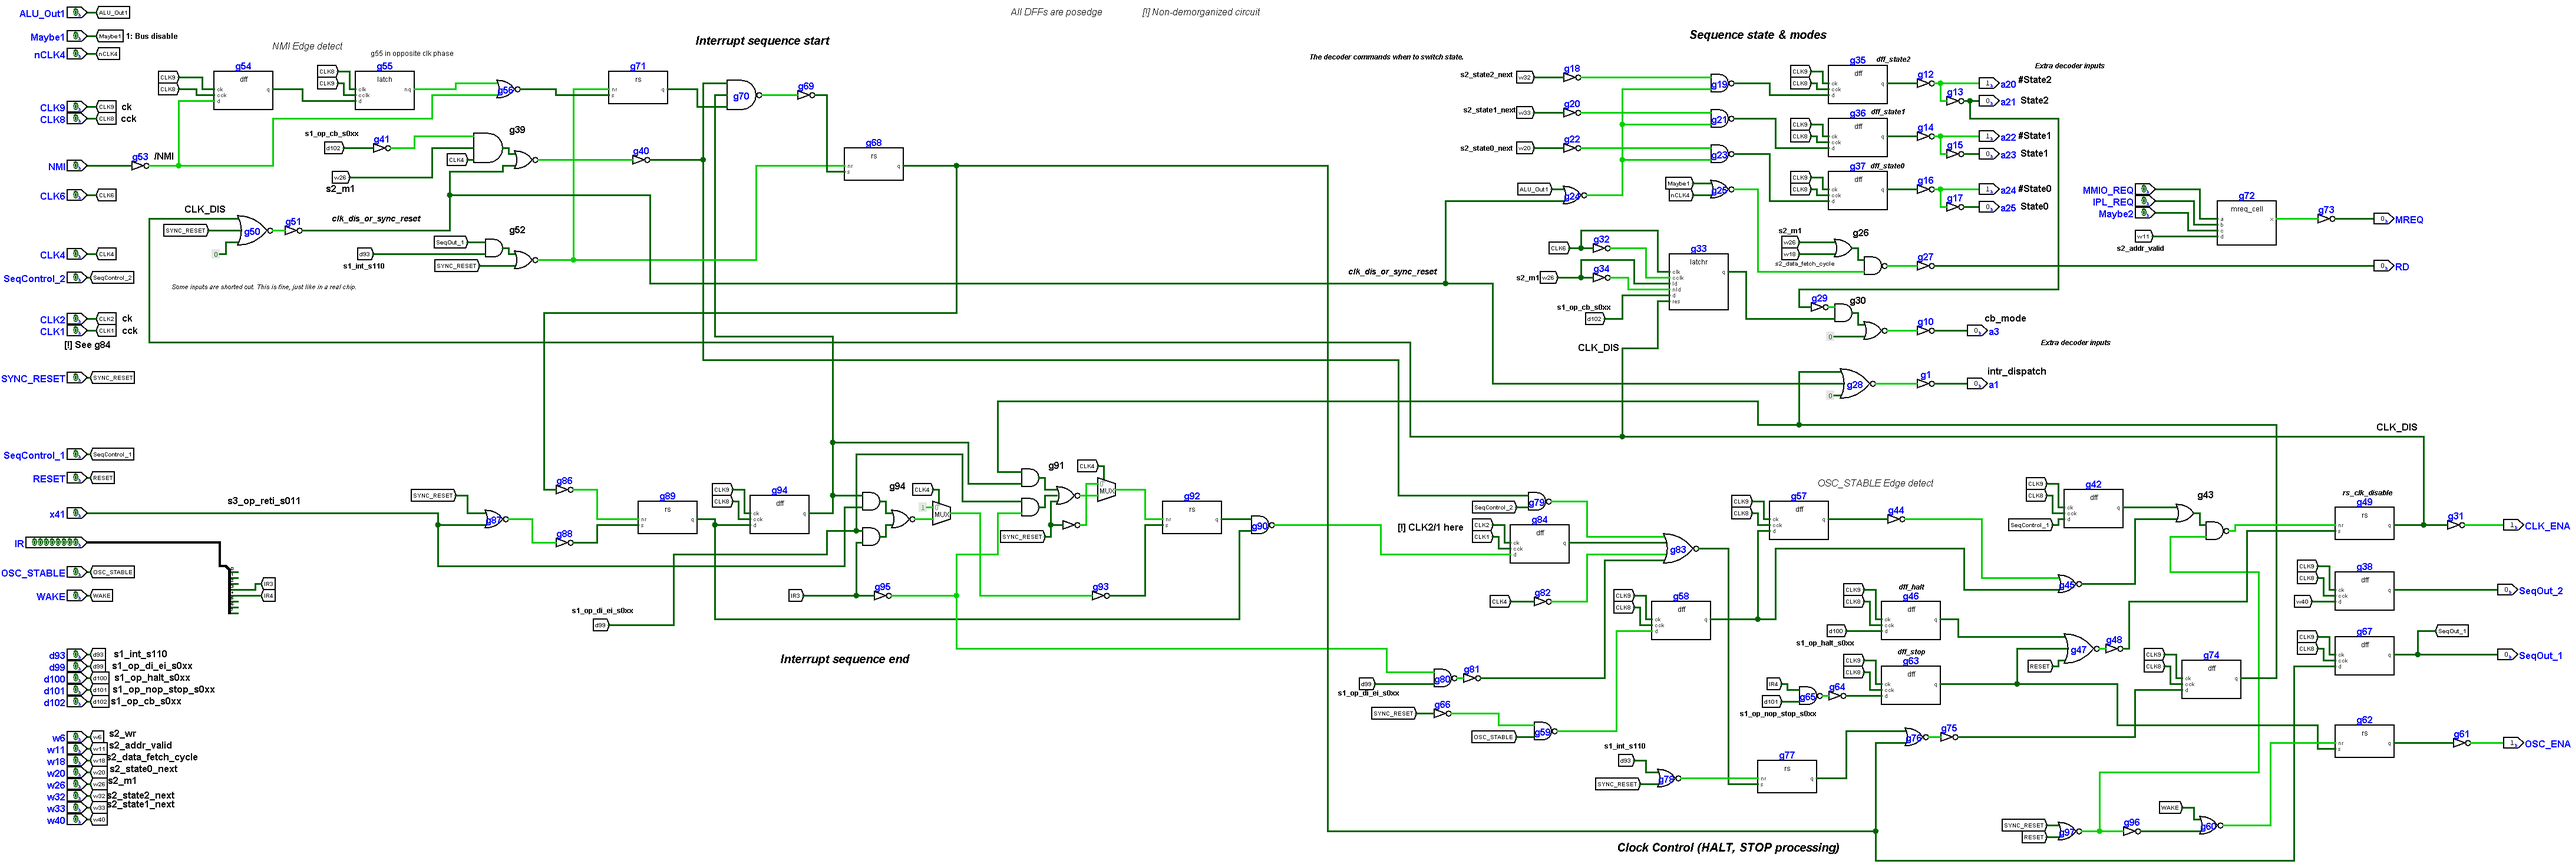
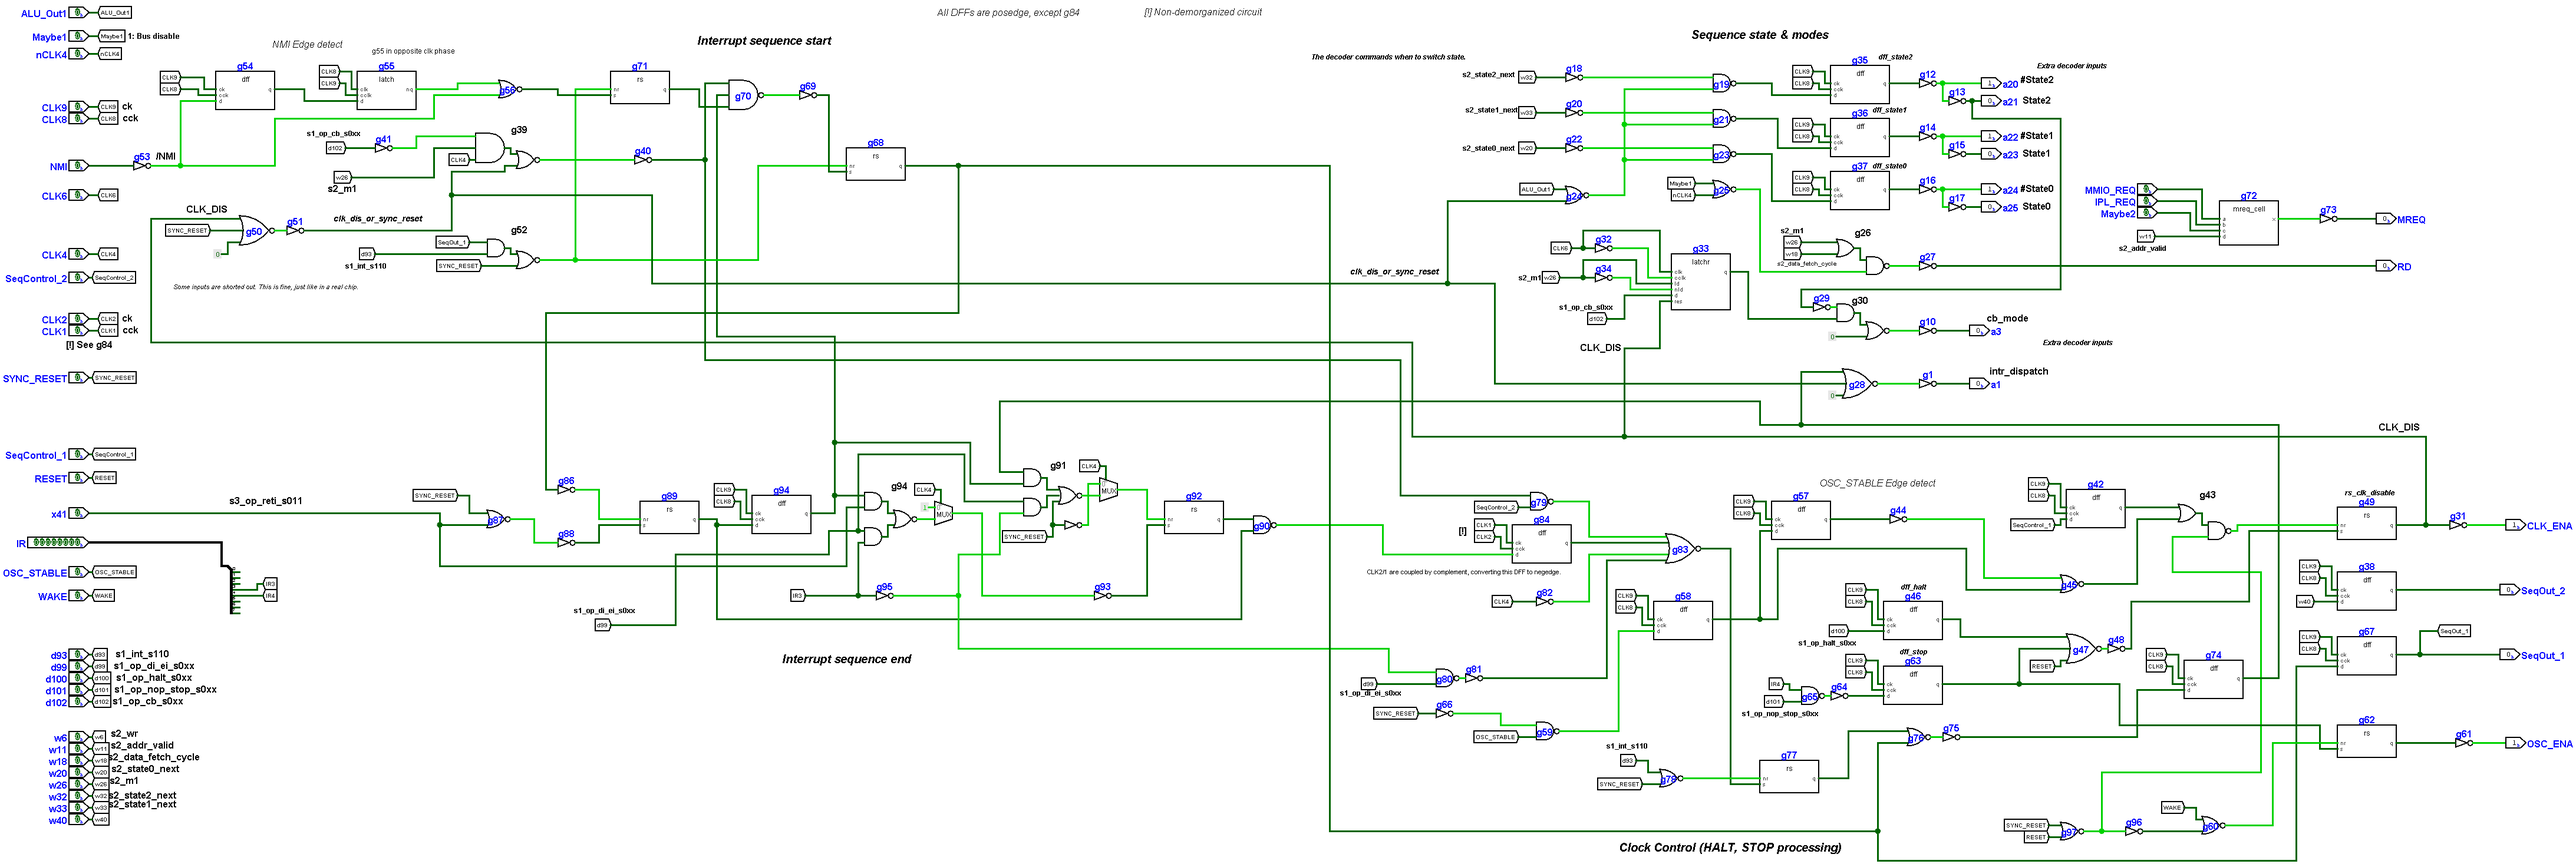
Fixed g84 CLK inputs
#219

diff --git a/seq.md b/seq.md
@@ -10,7 +10,7 @@
 
 |Signal|From|Description|
 |---|---|---|
-|CLK1 / ADR_CLK_N|External|To g84 only|
+|CLK1 / ADR_CLK_N|External|To g84 only; CLK2/1 are coupled by complement for g84, converting this DFF to negedge.|
 |CLK2 / ADR_CLK_P|External|To g84 only|
 |CLK4|External / DATA_CLK_N| |
 |CLK6|External / INC_CLK_P|See `huge1` module|
@@ -78,6 +78,7 @@ DFF on a complementary CLK (Dual Rails).
 Since the polarity of CLKs is now known (CLK9 = CLK, CLK8 = CCLK), we can say for sure that it is posedge DFF.
 
 In fact, when using Dual Rails, you can easily turn a posedge DFF into a negedge by simply rearranging the CLK complement signals.
+(and moreover this is what is done for `g84`, turning it into negedge dff)
 
 A distinctive feature of the circuits that do Edge Detection is the two serial MUX's that are opened complementary to the CLK. Using black magic and propagation delay - the edge of the signal is caught.
 
